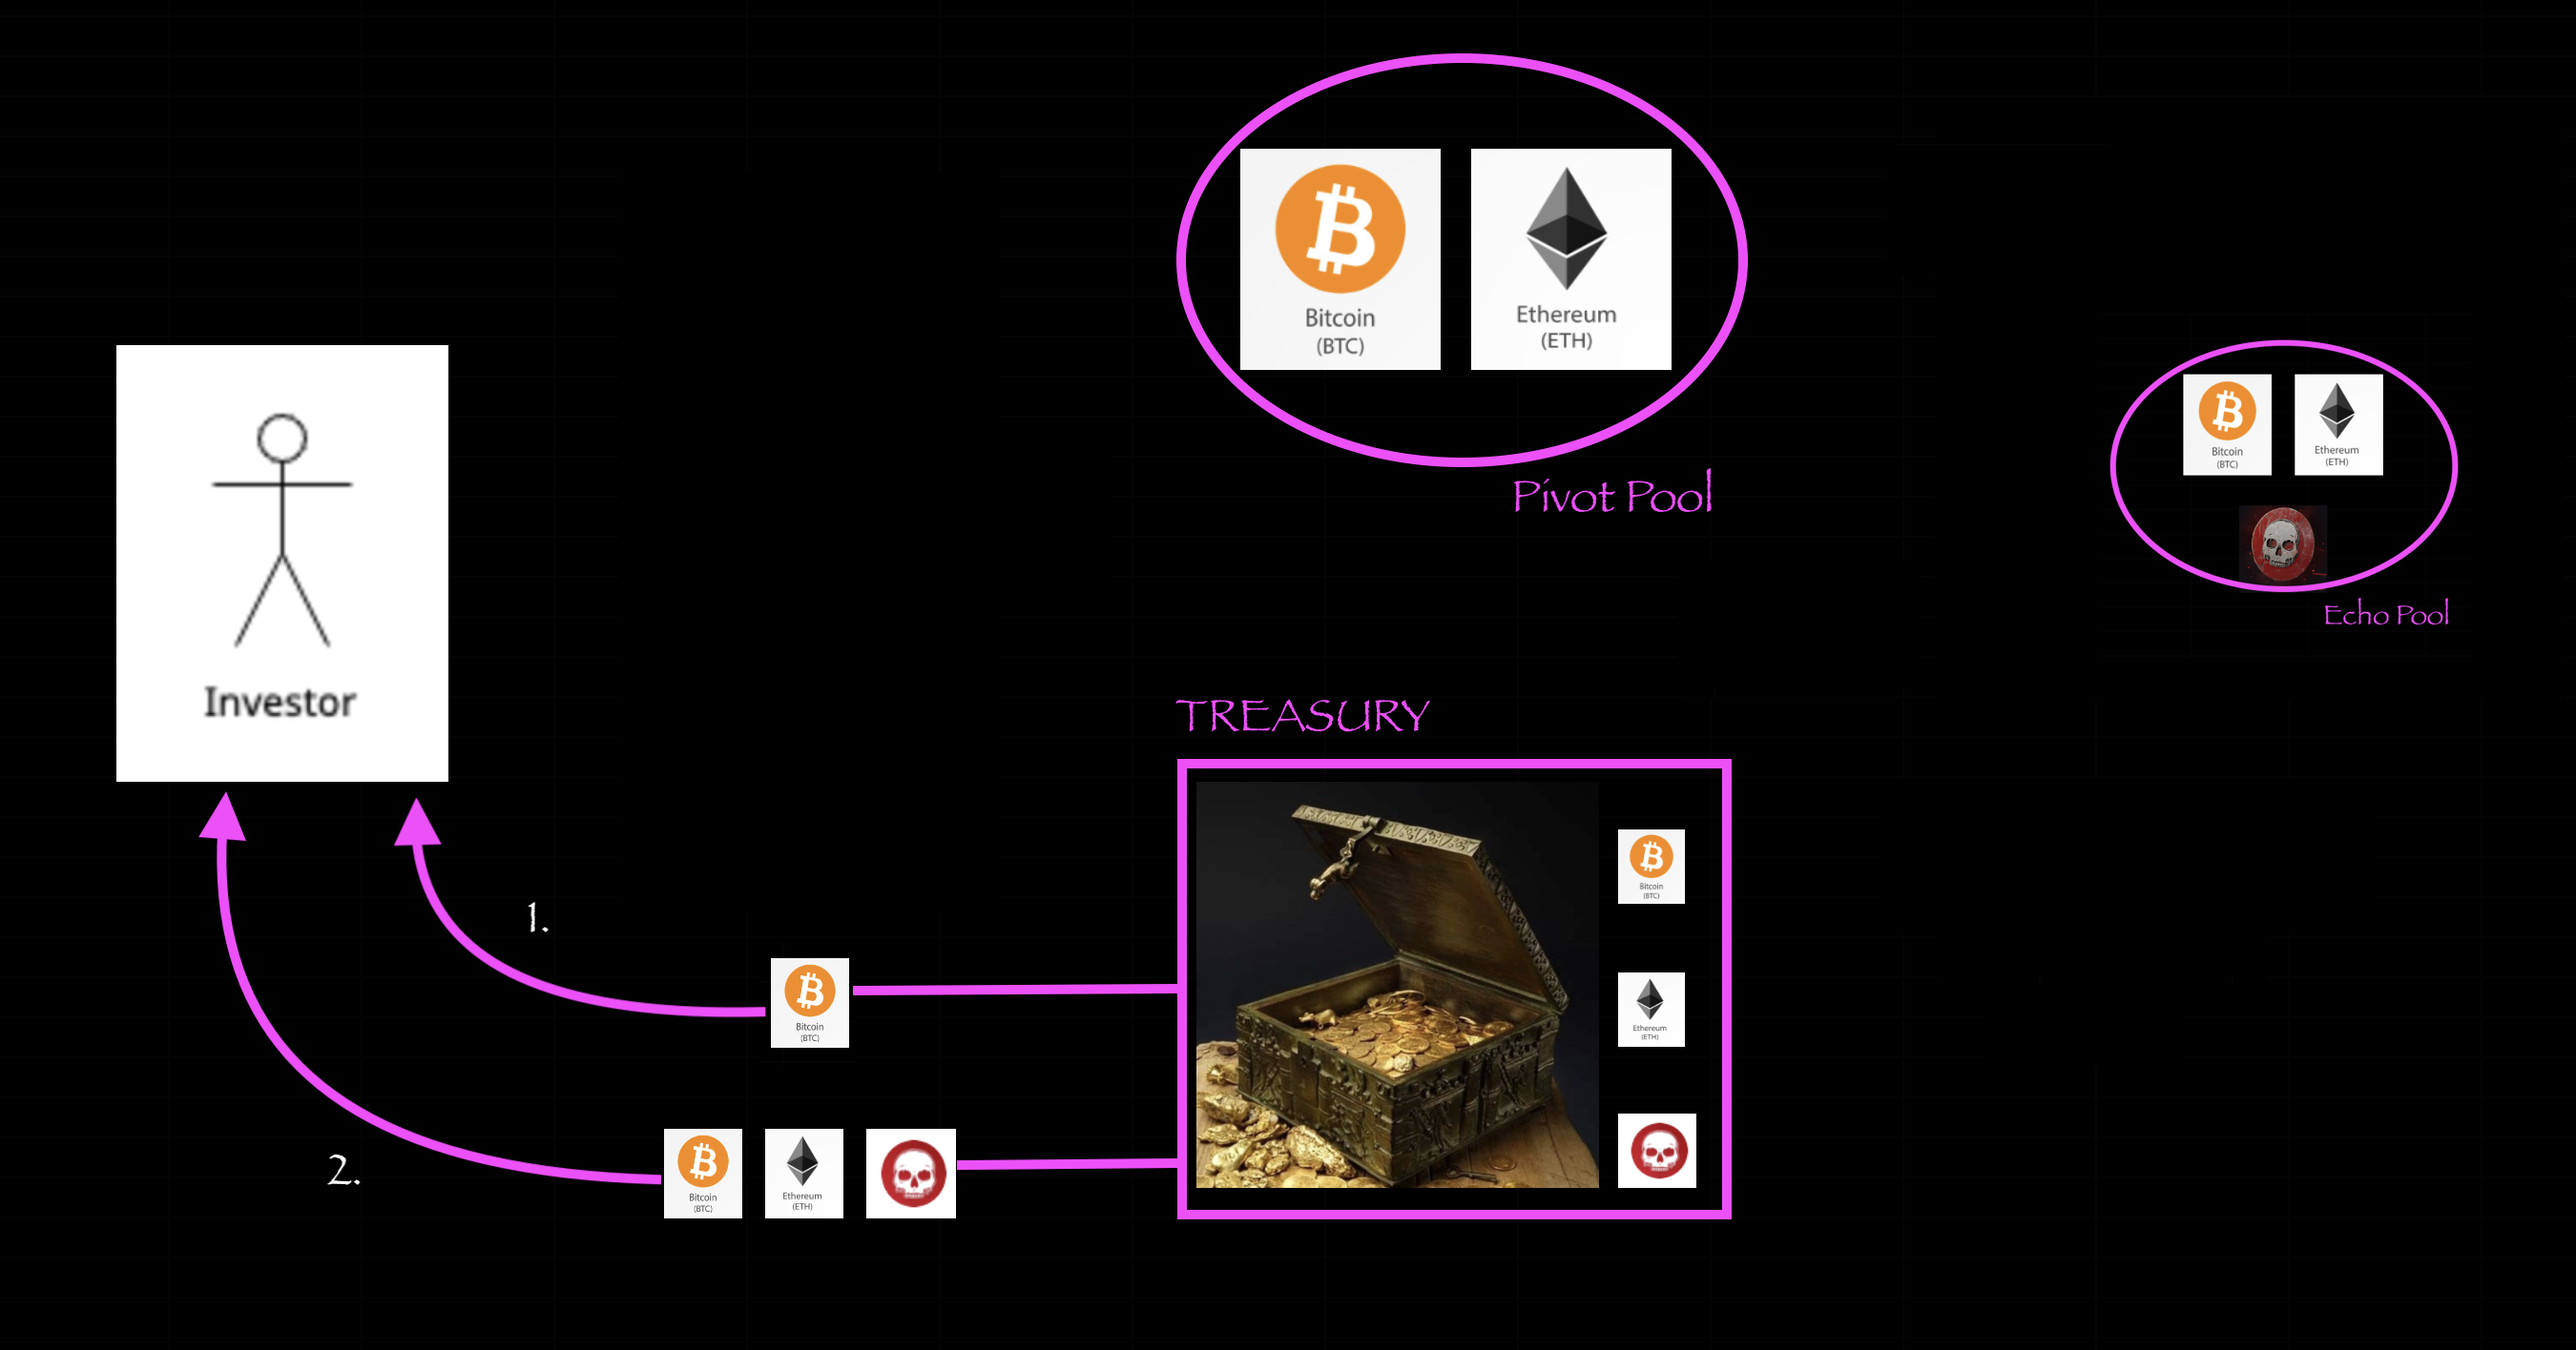
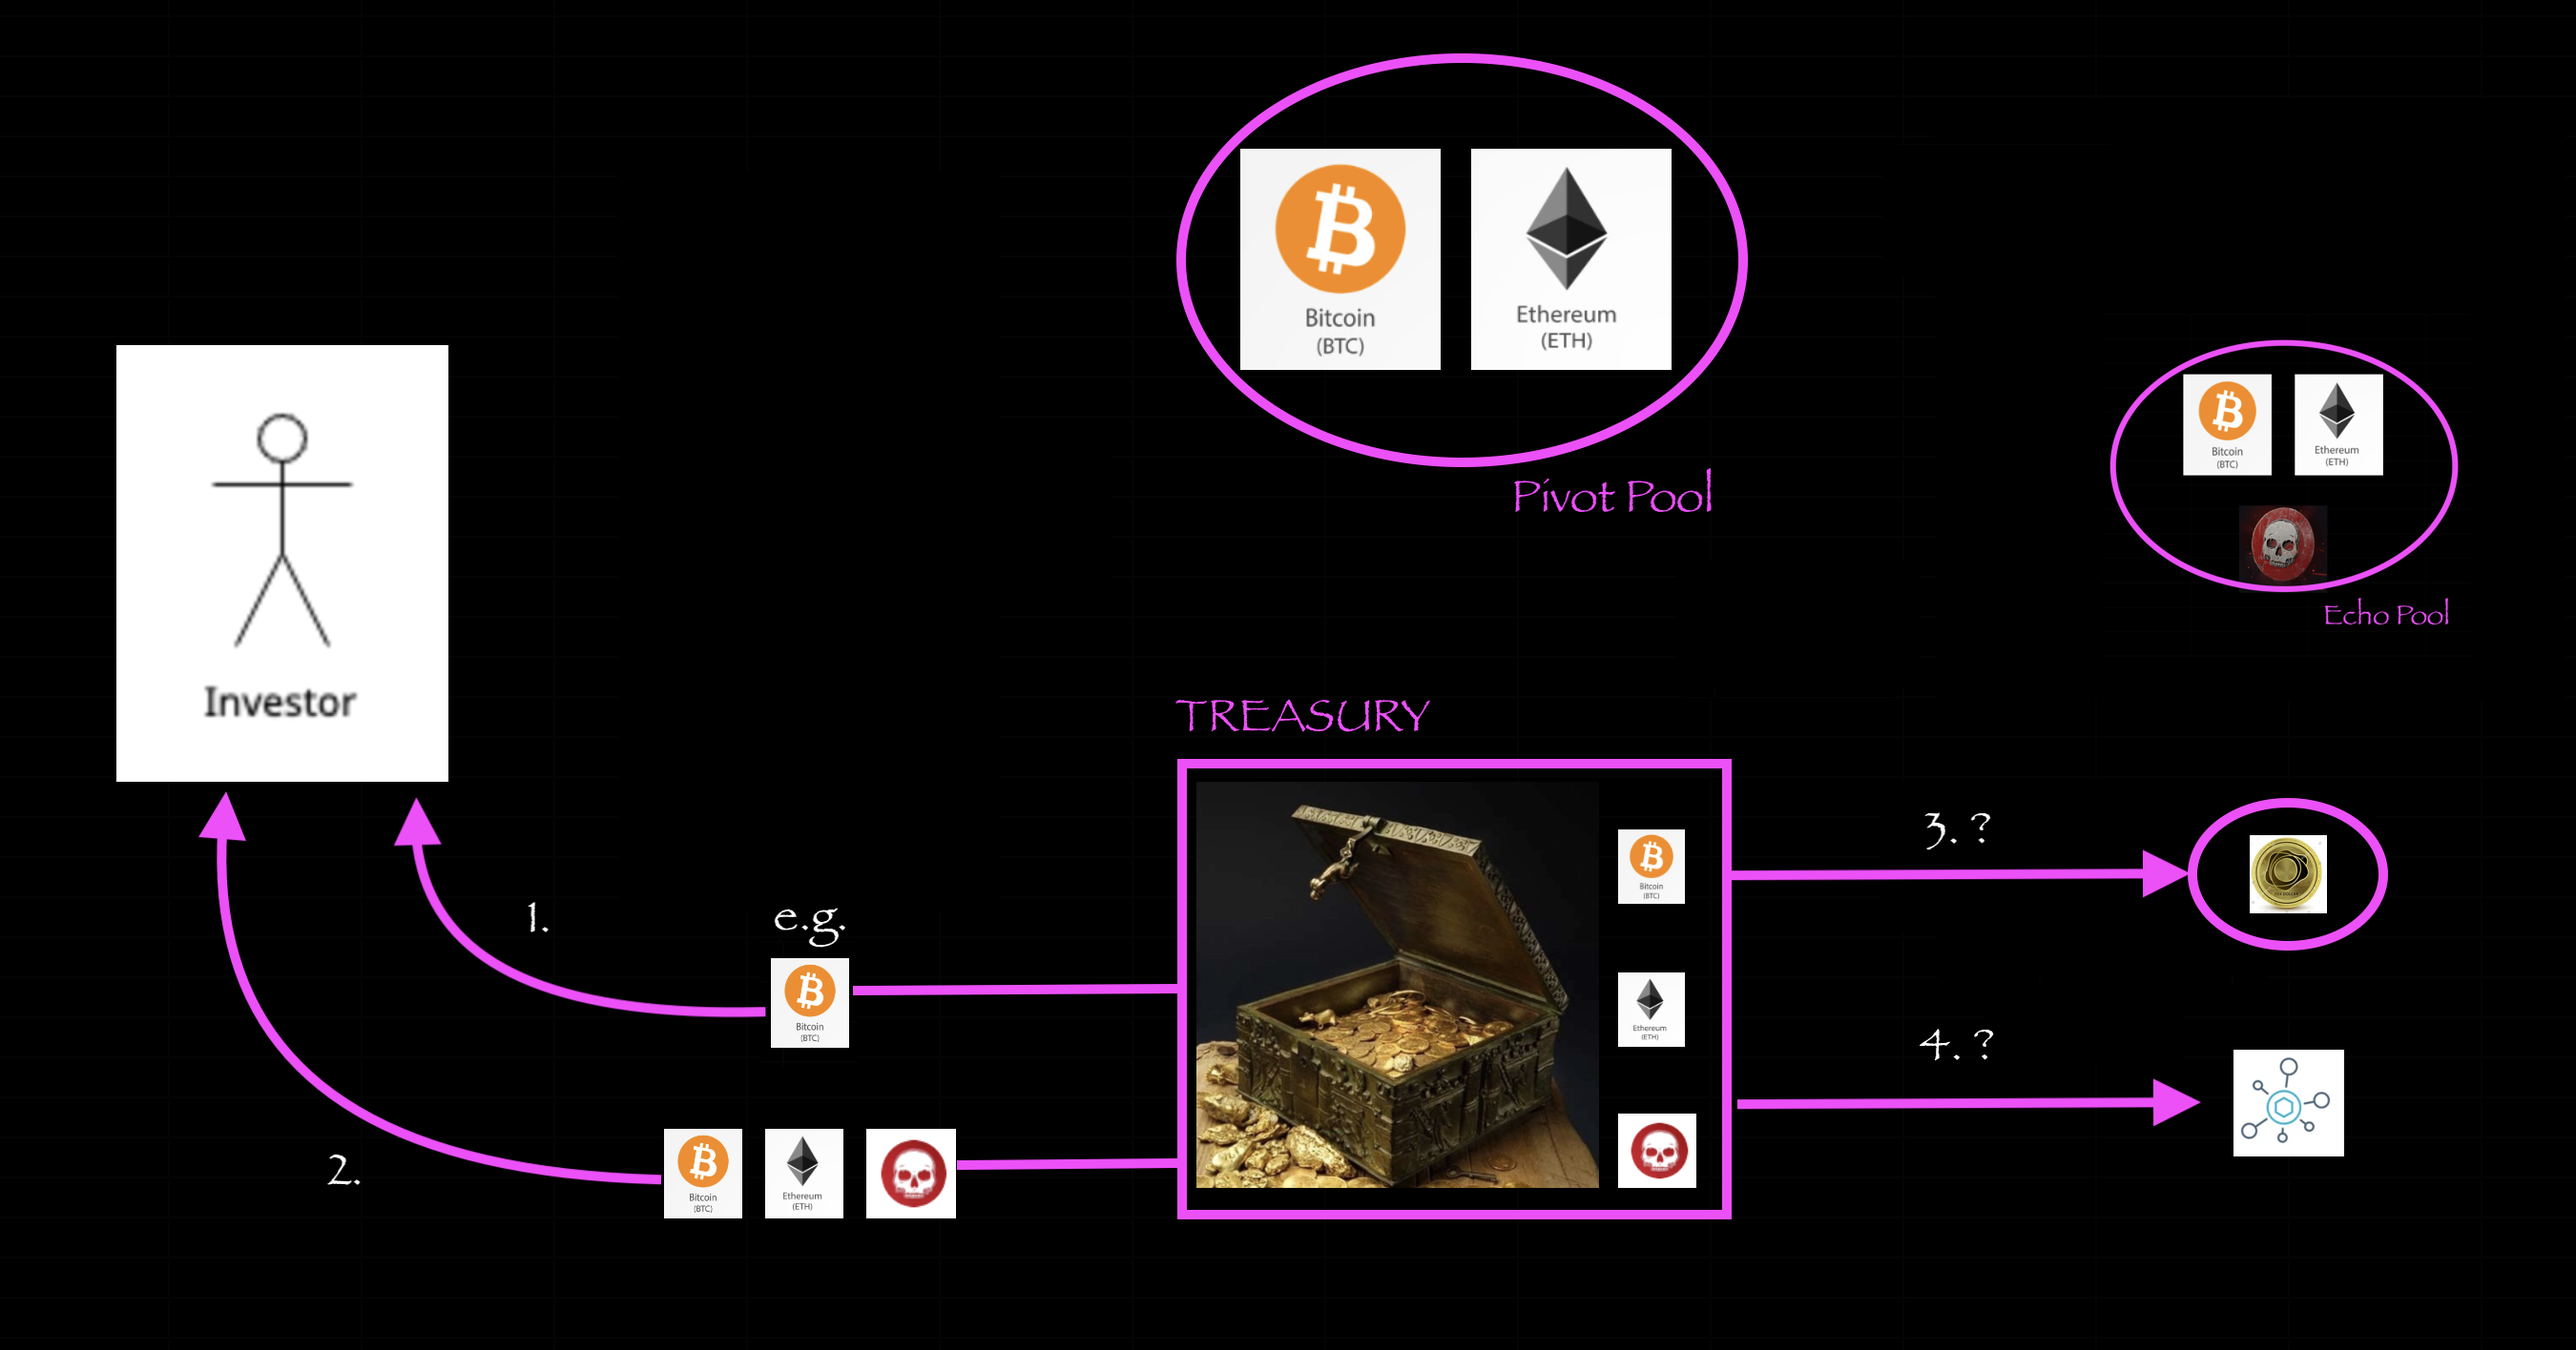
Added Treasury liquidity flows

Changed region(s): [[0.6844, 0.5904, 0.9333, 0.7147], [0.6844, 0.7768, 0.9333, 0.8701]]

diff --git a/README.md b/README.md
@@ -486,7 +486,7 @@ profit from the active pivot pools.
 You, as the investor, may invest in
 
 * none of the above types
-* one of the above types – pivot pools, echo pools, or the treasurey
+* one of the above types – pivot pools, echo pools, or the treasury
 * some of the above types
 * all of the above types of investment vehicles.
 
@@ -548,3 +548,50 @@ strengthening its pivot arbitrage trades.
 ### Treasury
 
 ![The Treasury liquidity flow](imgs/flows/03-treasury.png)
+
+The Treasury is the repository of the protocol's assets, building liquidity
+depth. It serves two functions:
+
+1. Building the wealth of the protocol to be deployed to new pools and new
+projects as the protocol sees fit.
+2. Disbursing protocol-assets to invests from a safe (read: 'slow' or 'boring')
+repository.
+
+Liquidity flows into the Treasury from investors and from the protocol pivot-
+and echo-pools. Liquidity flows from the Treasury in the following ways (please
+refer to the above diagram):
+
+1. When the Treasury receives gains from any pivot, say, e.g.: $BTC, 10% of
+that gain are distributed to all investors.
+2. On a regular cadence, say, e.g.: weekly, an annualized 3% of the protocol's
+assets are distributed to all investors.
+
+Two notes on 2. above. 
+
+* _Assets_ are distinct from _investments_ in the Treasury. The $UNDEAD tokens 
+you, the investor, invest into the Treasury are not disbursed in 2., but, 
+instead, are kept in reserve by the protocol.
+* '3% annualized' means just that. So, if disbursements are weekly, a 3%
+annualized disbursement would be factored for the weekly release, meaning that
+1/52nd of that 3% annualized disbursement would be distributed to all investors,
+_not_, to be clear here, 3% of the Treasury on a weekly basis, as that would
+drain the Treasury's assets quite quickly. The point of the Treasury is to 
+build wealth, not to disburse it.
+
+3. As the protocol grows in success, showing the efficacy of the pivot and echo
+pools, there will be demand for new pivot pools, both for, say more BTC+ETH 
+pivot pools or for pools with other tokens of value, e.g.: $PAXG. An
+apportionment of the Treasury will be used to explore new internal income
+streams.
+
+4. Pivot arbitrage isn't the last new idea in the Blockaverse. Somebody will
+come up with a new approach to investing that uses liquidity in novel ways,
+generating new ways to invest. The Treasury will incubate new, promising,
+proven ideas in crypto finance.
+
+The latter two (3. and 4.) will come after the Pivot Protocol, itself, has
+proven its own resiliency. Also, funding new pivot pools or protocols will not
+put a strain on the day-to-day operations of the Pivot Protocol, itself, so:
+no investment nor research will be allowed to take more than 10% of the 
+Treasury's assets.
+
